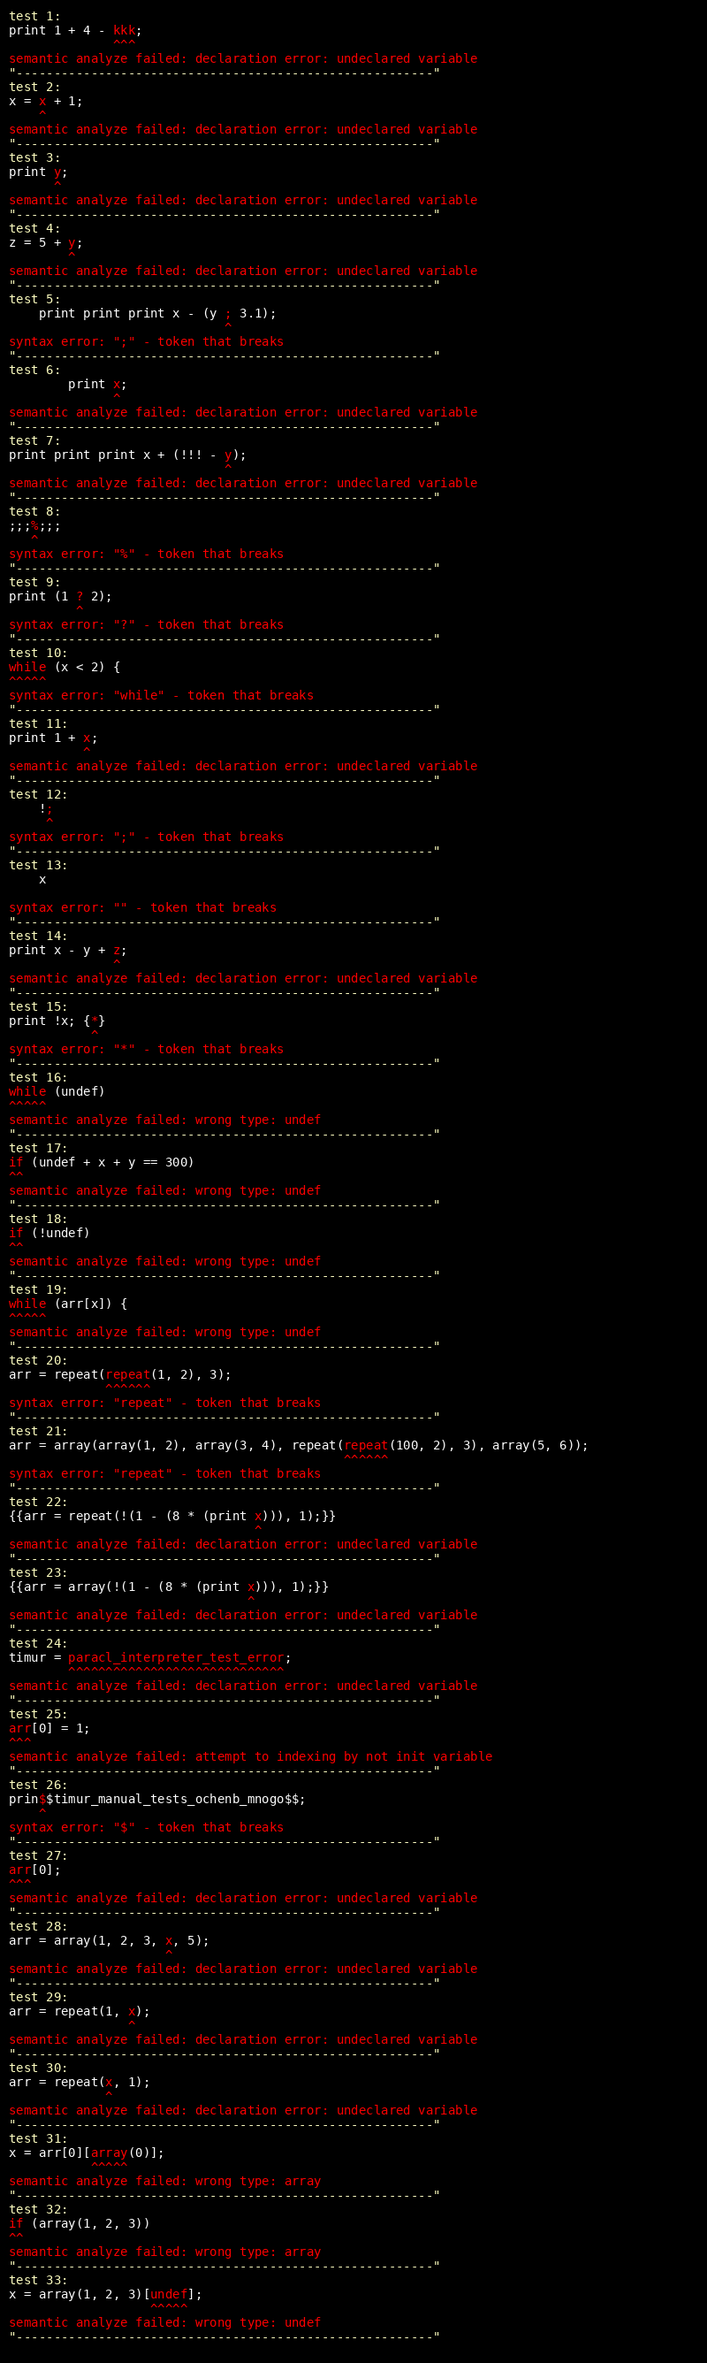
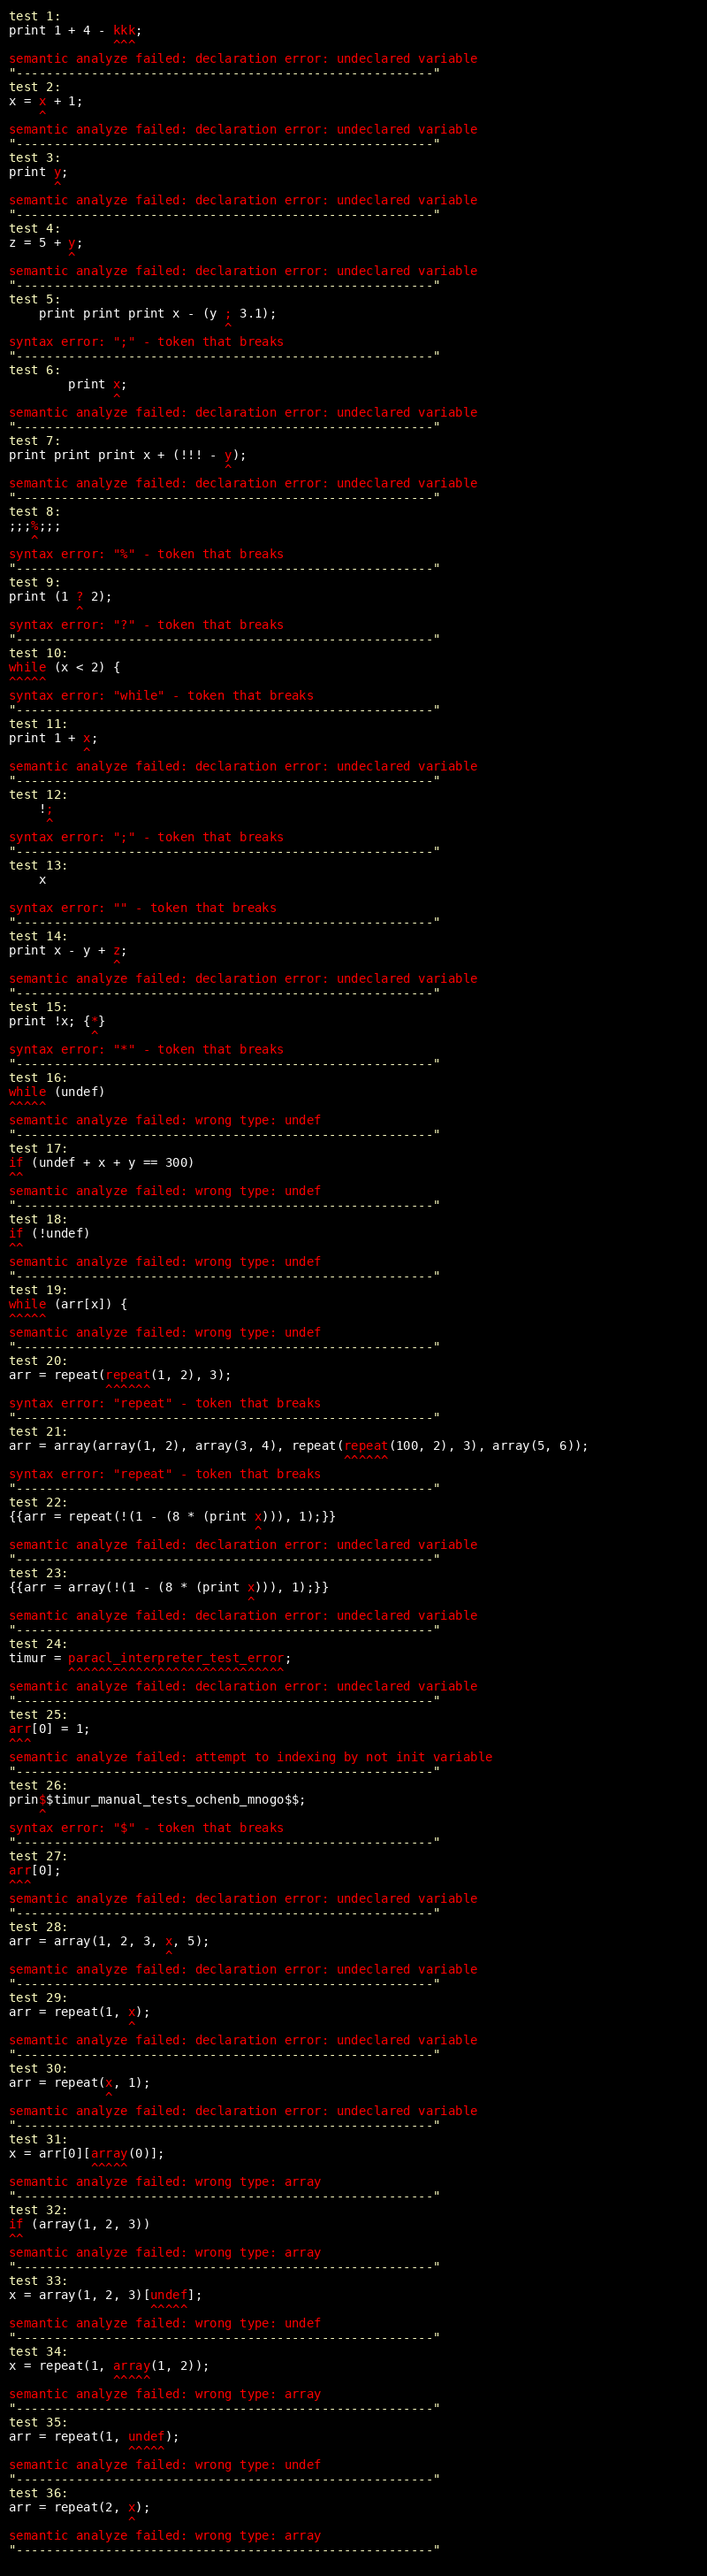
add checks for repeat type

diff --git a/include/node.hpp b/include/node.hpp
@@ -343,6 +343,31 @@ namespace node {
 
     /* ----------------------------------------------------- */
 
+    class node_input_t final : public node_type_t {
+    public:
+        node_input_t(const location_t& loc) : node_loc_t(loc) {}
+
+        value_t execute(buffer_t& buf, environments_t& env) override {
+            int value;
+            env.is >> value;
+            if (env.is_analyzing && !env.is.good())
+                throw error_execute_t{node_loc_t::loc(), env.program_str, "invalid input: need integer"};
+            return {node_type_e::NUMBER, buf.add_node<node_number_t>(node_loc_t::loc(), value)};
+        }
+
+        value_t analyze(buffer_t& buf, environments_t& env) override {
+            return {node_type_e::INPUT, buf.add_node<node_input_t>(node_loc_t::loc())};
+        }
+
+        void print(buffer_t& buf, environments_t& env) override { env.os << "?\n"; }
+
+        node_expression_t* copy(buffer_t& buf, node_scope_t* parent) const override {
+            return buf.add_node<node_input_t>(node_loc_t::loc());
+        }
+    };
+
+    /* ----------------------------------------------------- */
+
     class node_indexes_t final : public node_t,
                                  virtual public node_loc_t {
         std::vector<node_expression_t*> indexes_;
@@ -392,8 +417,8 @@ namespace node {
 
     class node_array_values_t {
     public:
-        virtual std::vector<value_t> execute  (buffer_t& buf, environments_t& env) const = 0;
-        virtual std::vector<value_t> analyze  (buffer_t& buf, environments_t& env) const = 0;
+        virtual std::vector<value_t> execute(buffer_t& buf, environments_t& env) const = 0;
+        virtual std::pair<std::vector<value_t>, value_t> analyze(buffer_t& buf, environments_t& env) const = 0;
         virtual node_array_values_t* copy_vals(buffer_t& buf, node_scope_t* parent) const = 0;
     };
 
@@ -436,6 +461,8 @@ namespace node {
 
     /* ----------------------------------------------------- */
 
+    class node_input_t;
+
     class node_repeat_values_t : public node_array_value_t,
                                  public node_array_values_t {
         node_expression_t* value_;
@@ -452,7 +479,7 @@ namespace node {
 
         void add_value_analyze(std::vector<value_t>& values, buffer_t& buf,
                                environments_t& env) const override {
-            std::vector<value_t> result = analyze(buf, env);
+            std::vector<value_t> result = analyze(buf, env).first;
             values.insert(values.end(), result.begin(), result.end());
         }
 
@@ -464,12 +491,19 @@ namespace node {
             return values;
         }
 
-        std::vector<value_t> analyze(buffer_t& buf, environments_t& env) const override {
-            value_t value = value_->analyze(buf, env);
+        std::pair<std::vector<value_t>, value_t> analyze(buffer_t& buf, environments_t& env) const override {
             value_t count = count_->analyze(buf, env);
+            value_t value = value_->analyze(buf, env);
+
+            if (count.type == node_type_e::INPUT)
+                return {{}, {node_type_e::INPUT, buf.add_node<node_input_t>(count_->loc())}};
+
+            expect_types_ne(count.type, node_type_e::UNDEF, count_->loc(), env);
+            expect_types_ne(count.type, node_type_e::ARRAY, count_->loc(), env);
+
             size_t real_count = static_cast<node_number_t*>(count.value)->get_value(); // static check type
             std::vector<value_t> values{real_count, value};
-            return values;
+            return {values, {node_type_e::NUMBER, buf.add_node<node_number_t>(count_->loc(), real_count)}};
         }
 
         node_array_values_t* copy_vals(buffer_t& buf, node_scope_t* parent) const override {
@@ -503,12 +537,12 @@ namespace node {
 
         void add_value(node_array_value_t* value) { values_.push_back(value); }
 
-        std::vector<value_t> analyze(buffer_t& buf, environments_t& env) const override {
+        std::pair<std::vector<value_t>, value_t> analyze(buffer_t& buf, environments_t& env) const override {
             std::vector<value_t> values;
             const int size = values_.size();
             for (int i : view::iota(0, size))
                 values_[i]->add_value_analyze(values, buf, env);
-            return values;
+            return {values, {node_type_e::NUMBER, buf.add_node<node_number_t>(node_loc_t::loc(), size)}};
         }
 
         node_array_values_t* copy_vals(buffer_t& buf, node_scope_t* parent) const override {
@@ -573,7 +607,7 @@ namespace node {
         }
 
         void init_analyze(buffer_t& buf, environments_t& env) {
-            values_       = init_values_->analyze(buf, env);
+            values_       = init_values_->analyze(buf, env).first;
             real_indexes_ = indexes_->analyze(buf, env);
             is_inited_    = true;
         }
@@ -960,31 +994,6 @@ namespace node {
 
         node_expression_t* copy(buffer_t& buf, node_scope_t* parent) const override {
             return buf.add_node<node_print_t>(node_loc_t::loc(), argument_->copy(buf, parent));
-        }
-    };
-
-    /* ----------------------------------------------------- */
-
-    class node_input_t final : public node_type_t {
-    public:
-        node_input_t(const location_t& loc) : node_loc_t(loc) {}
-
-        value_t execute(buffer_t& buf, environments_t& env) override {
-            int value;
-            env.is >> value;
-            if (env.is_analyzing && !env.is.good())
-                throw error_execute_t{node_loc_t::loc(), env.program_str, "invalid input: need integer"};
-            return {node_type_e::NUMBER, buf.add_node<node_number_t>(node_loc_t::loc(), value)};
-        }
-
-        value_t analyze(buffer_t& buf, environments_t& env) override {
-            return {node_type_e::INPUT, buf.add_node<node_input_t>(node_loc_t::loc())};
-        }
-
-        void print(buffer_t& buf, environments_t& env) override { env.os << "?\n"; }
-
-        node_expression_t* copy(buffer_t& buf, node_scope_t* parent) const override {
-            return buf.add_node<node_input_t>(node_loc_t::loc());
         }
     };
 

diff --git a/README.md b/README.md
@@ -42,10 +42,10 @@
     include flag <code>--analyze</code>
 
 ## Compile errors
+#### [Examples](https://github.com/baitim/ParaCL/tree/main/images/errors.png)
 * Unknown token
 * Undeclared variable
 * Wrong types <br>
-* [Examples](https://github.com/baitim/ParaCL/tree/main/images/errors.png)
 
 ## Runtime errors
 
